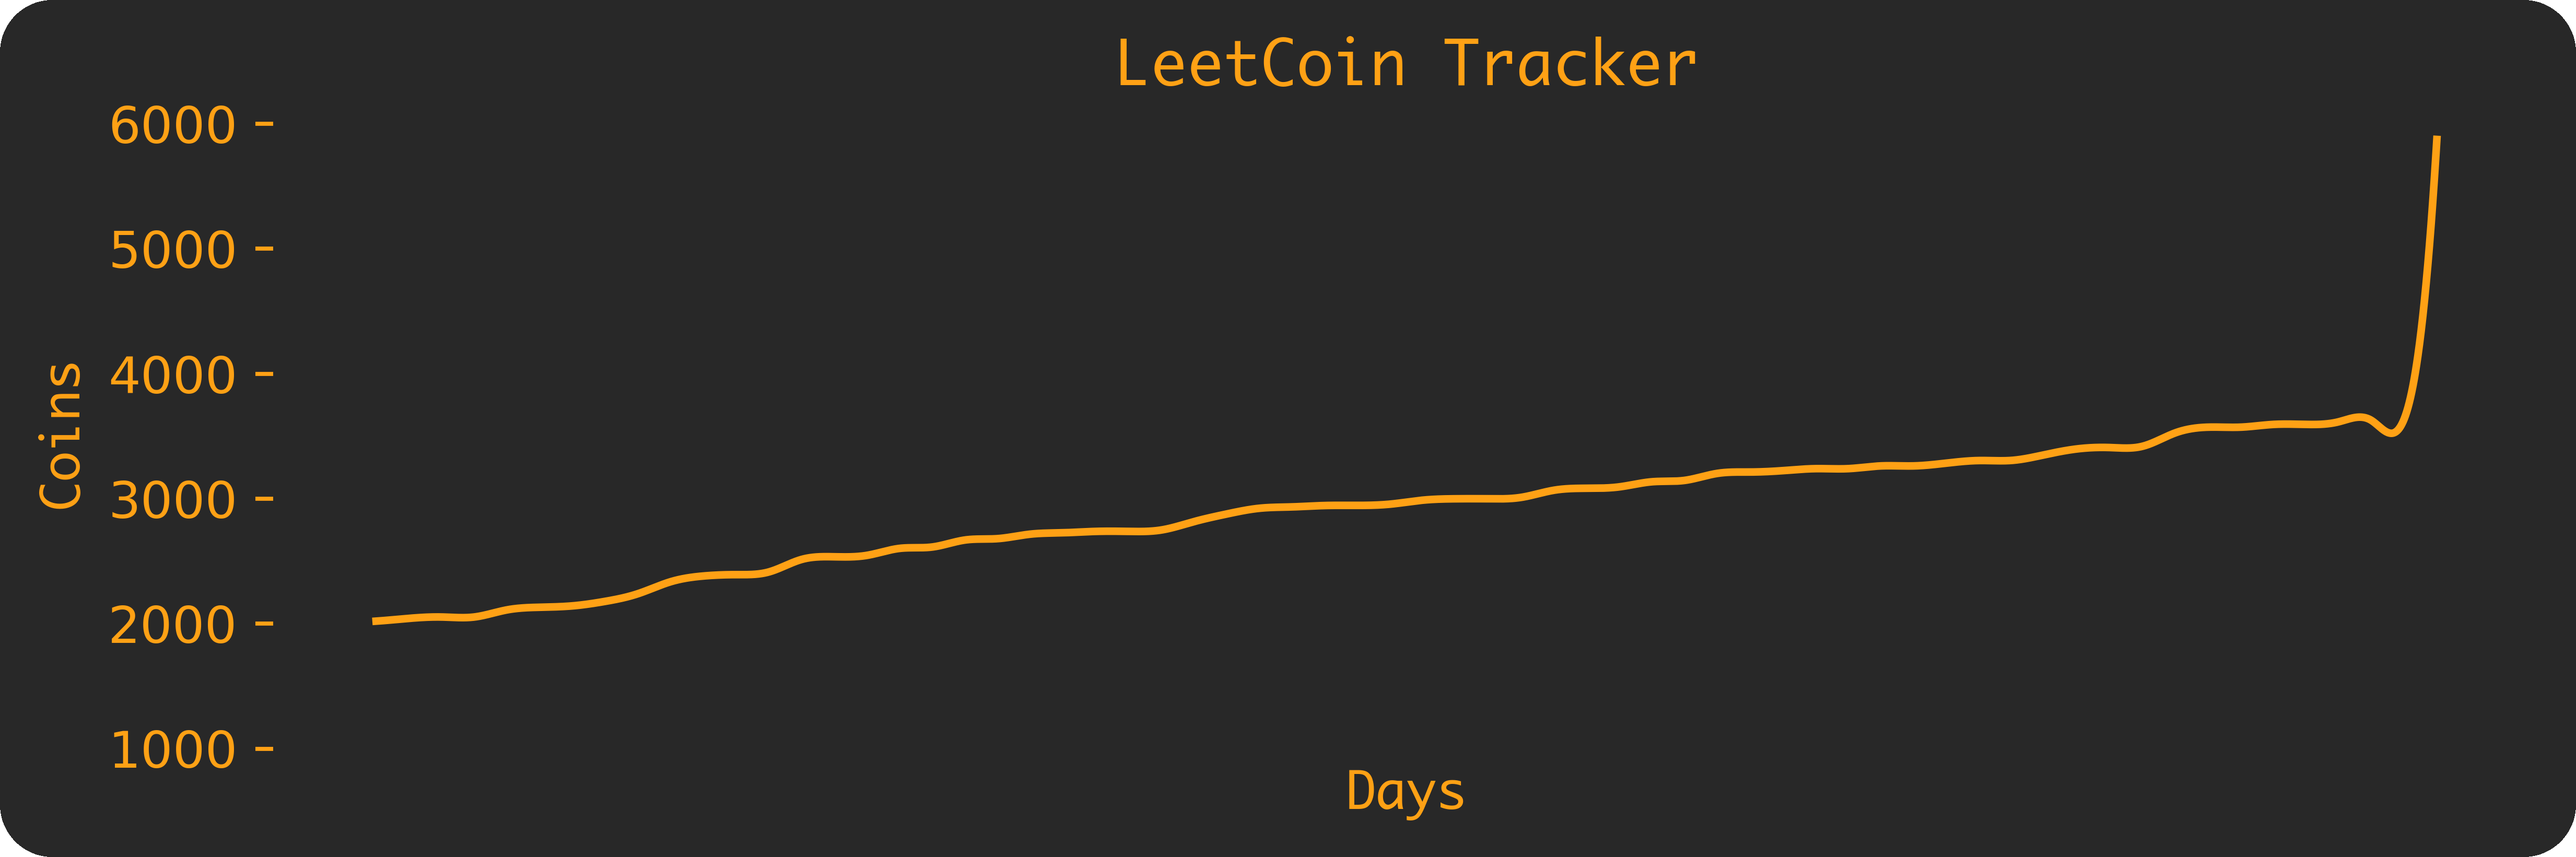
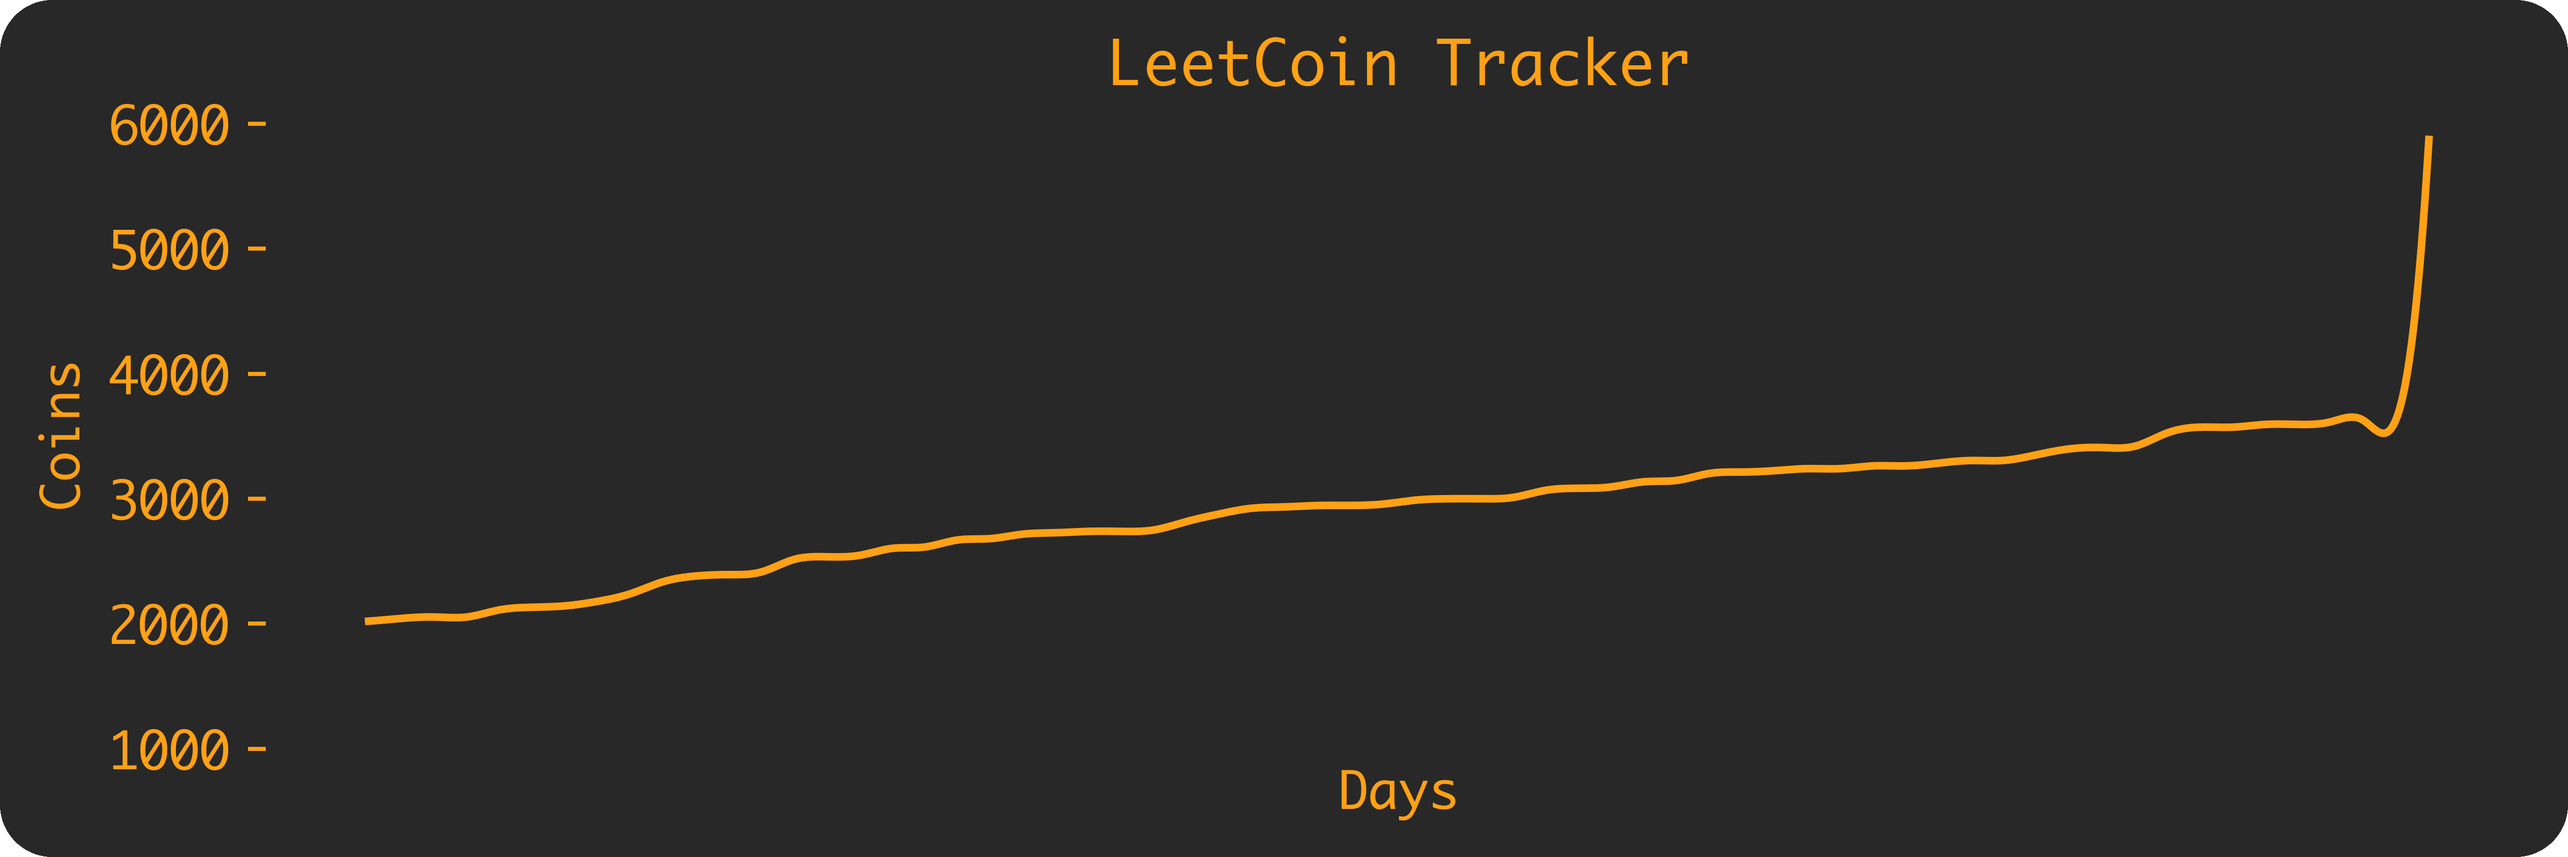
t1

diff --git a/generate_graph.py b/generate_graph.py
@@ -15,7 +15,7 @@ def generate_graph(filename="data.csv"):
     y0 = df["points"].tolist()
 
     plt.figure(facecolor="#282828")
-    plt.rcParams["font.family"] = "Arial"
+    plt.rcParams["font.family"] = "Monaco"
     plt.rcParams["text.color"] = LEETCODE_YELLOW
     plt.rcParams["axes.labelcolor"] = LEETCODE_YELLOW
     plt.rcParams["xtick.color"] = LEETCODE_YELLOW
